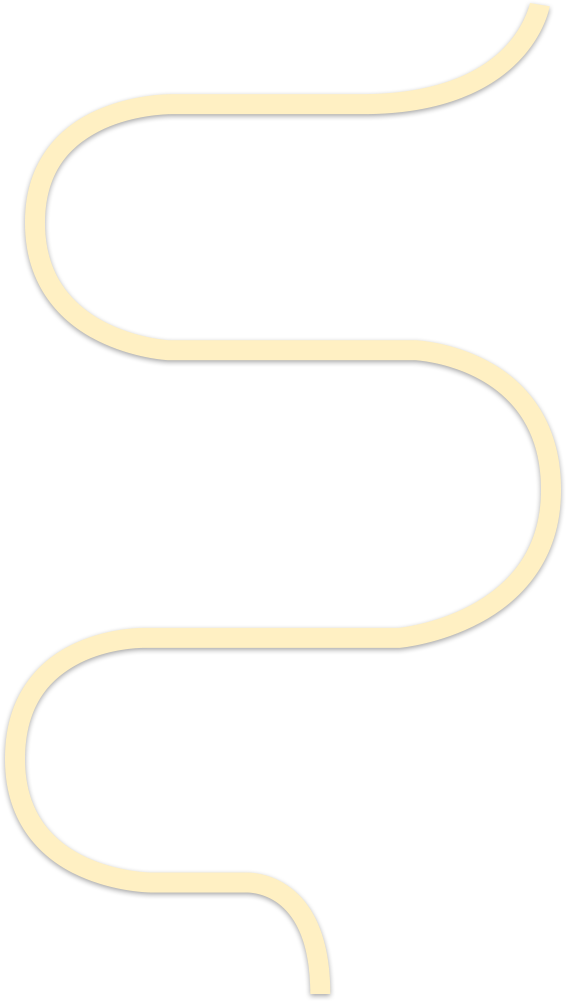
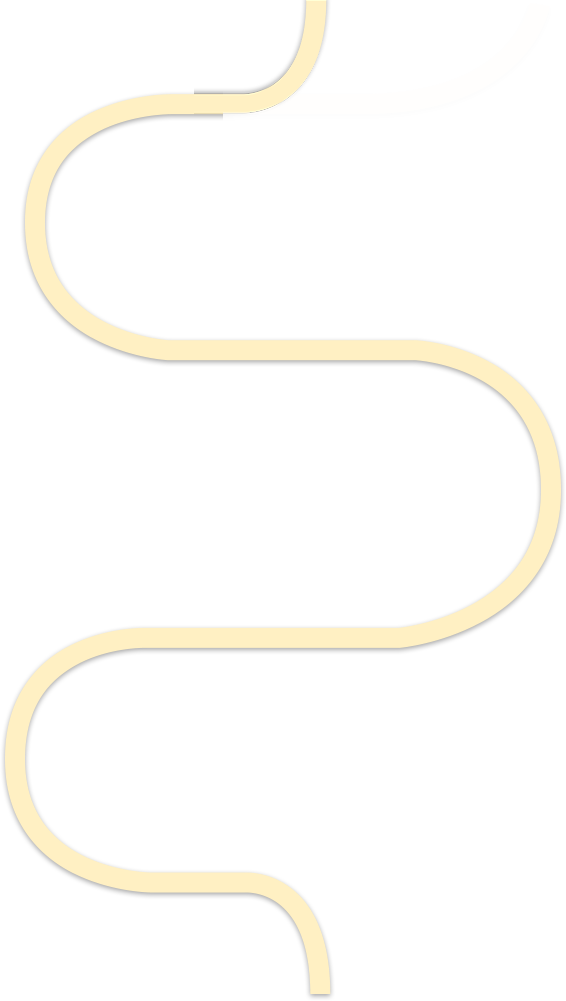
feat map

Changed region(s): [[0.3905, 0.0, 0.9912, 0.1239]]

diff --git a/assets/scripts/ui/MapSceneController.ts b/assets/scripts/ui/MapSceneController.ts
@@ -1,4 +1,4 @@
-import { _decorator, Component, Node, Button, ScrollView, Label, UITransform, Prefab, instantiate } from 'cc';
+import { _decorator, Component, Node, Button, ScrollView, Label, UITransform, Prefab, instantiate, Vec3, tween } from 'cc';
 import { NavigationManager, NavigationEvent } from '../utils/NavigationManager';
 import { SoundManager } from '../utils/SoundManager';
 import { LevelConfig } from '../data/LevelConfig';
@@ -23,13 +23,14 @@ interface LevelButtonData {
  * 路径上的点坐标（相对于 levelListContainer），顺序为 [x1, y1, x2, y2, ...]，与关卡 1、2、3… 一一对应。
  */
 const DEFAULT_PATH_POSITIONS = [
-    30, -240,   // 1 右下
-    -150, -140,   // 2
+    10, -240,   // 1 右下
+    -150, -120,   // 2
     150, 0,   // 3
     0, 80,   // 4
-    -145, 160,   // 5
-    140, 260      // 6
+    -140, 150   // 5
 ];
+const LEVELS_PER_GROUP = 5;
+const DYNAMIC_MAP_GROUP_PREFIX = 'MapPathGroup_';
 
 /**
  * 地图页控制器
@@ -47,9 +48,10 @@ export class MapSceneController extends Component {
     levelItemPrefab: Prefab | null = null;
 
     private _navManager: NavigationManager | null = null;
-    private _levelButtons: LevelButtonData[] = [];
     private _currentLevel: number = 1;
     private _unlockedLevel: number = 1;
+    private _initialContentHeight: number = 0;
+    private _baseMapOriginPos: { x: number; y: number; z: number } | null = null;
 
     /**
      * 组件生命周期：加载
@@ -69,6 +71,10 @@ export class MapSceneController extends Component {
 
         if (!this.levelListContainer && this.levelScrollView?.content) {
             this.levelListContainer = this.levelScrollView.content;
+        }
+        const contentTransform = this.levelScrollView?.content?.getComponent(UITransform);
+        if (contentTransform) {
+            this._initialContentHeight = contentTransform.height;
         }
 
         // 生成关卡列表
@@ -93,16 +99,8 @@ export class MapSceneController extends Component {
     protected onEnable(): void {
         if (!this.levelListContainer) return;
         this.loadUserData();
-        this.levelListContainer.children.forEach((node) => {
-            if (!node.name.startsWith('Level_')) return;
-            const ctrl = node.getComponent(LevelItemController);
-            if (!ctrl) return;
-            const levelNum = parseInt(node.name.replace('Level_', ''), 10) || 1;
-            ctrl.setData(
-                { levelNum, isUnlocked: levelNum <= this._unlockedLevel },
-                this._currentLevel
-            );
-        });
+        this.refreshAllLevelItemStates();
+        this.scheduleOnce(() => this.smoothScrollToCurrentLevel(), 0);
     }
 
     /**
@@ -146,43 +144,279 @@ export class MapSceneController extends Component {
             console.warn('[MapSceneController] 关卡列表容器未设置');
             return;
         }
-        this._levelButtons = [];
-
-        // 只移除之前生成的关卡节点（保留 LevelContainer 等），避免 removeAllChildren 误删
-        const toRemove: Node[] = [];
-        this.levelListContainer.children.forEach((c) => {
-            if (c.name.startsWith('Level_')) toRemove.push(c);
-        });
-        toRemove.forEach((c) => c.removeFromParent());
-
+        const groupContext = this.prepareMapGroupContext();
         const totalLevels = Math.max(1, LevelConfig.getTotalLevels());
-        const pathPoints = DEFAULT_PATH_POSITIONS;
-        const pathPointCount = Math.floor(pathPoints.length / 2);
-        const visibleLevels = Math.min(totalLevels, pathPointCount);
+        const totalGroups = Math.max(1, Math.ceil(totalLevels / LEVELS_PER_GROUP));
+        const groupPathPointCount = this.getGroupPathPointCount();
+        if (groupPathPointCount < LEVELS_PER_GROUP) {
+            console.warn(`[MapSceneController] 当前路径点只有 ${groupPathPointCount} 个，将按可用点位生成`);
+        }
 
-        for (let i = 1; i <= visibleLevels; i++) {
-            const levelData: LevelButtonData = {
-                levelId: LevelConfig.levelNumToLevelId(i),
-                levelNum: i,
-                isUnlocked: i <= this._unlockedLevel,
-                isCompleted: i < this._unlockedLevel,
-                stars: i < this._unlockedLevel ? 3 : 0
-            };
+        const baseStartY = (this._baseMapOriginPos?.y ?? 0) - ((totalGroups - 1) * groupContext.mapGroupHeight) / 2;
+        groupContext.baseMapGroupNode.setPosition(groupContext.basePosX, baseStartY, groupContext.basePosZ);
+        const generatedCount = this.spawnLevelButtons(totalLevels, groupPathPointCount, groupContext, baseStartY);
 
-            this._levelButtons.push(levelData);
+        this.updateContentHeight(totalGroups, groupContext.mapGroupHeight);
+        console.log(`[MapSceneController] 生成了 ${generatedCount} 个关卡按钮`);
+        this.scheduleOnce(() => this.smoothScrollToCurrentLevel(), 0);
+        groupContext.mapGroupTemplate.destroy();
+    }
 
+    private refreshAllLevelItemStates(): void {
+        if (!this.levelListContainer) return;
+        this.traverseNodes(this.levelListContainer, (node) => {
+            if (!node.name.startsWith('Level_')) return;
+            const ctrl = node.getComponent(LevelItemController);
+            if (!ctrl) return;
+            const levelNum = parseInt(node.name.replace('Level_', ''), 10) || 1;
+            ctrl.setData(
+                { levelNum, isUnlocked: levelNum <= this._unlockedLevel },
+                this._currentLevel
+            );
+        });
+    }
+
+    private prepareMapGroupContext(): {
+        baseMapGroupNode: Node;
+        mapGroupParent: Node;
+        mapGroupHeight: number;
+        mapGroupTemplate: Node;
+        basePosX: number;
+        basePosZ: number;
+    } {
+        const baseMapGroupNode = this.findBaseMapGroupNode();
+        const mapGroupParent = baseMapGroupNode.parent ?? this.levelListContainer!;
+        const mapGroupHeight = Math.max(1, baseMapGroupNode.getComponent(UITransform)?.height ?? 0);
+        if (!this._baseMapOriginPos) {
+            const p = baseMapGroupNode.position;
+            this._baseMapOriginPos = { x: p.x, y: p.y, z: p.z };
+        }
+
+        this.clearDynamicMapGroups(mapGroupParent);
+        this.clearLevelButtons(baseMapGroupNode);
+
+        // 使用“无关卡按钮”的干净模板做克隆，避免 1~5 被复制到后续分组导致重叠态。
+        const mapGroupTemplate = instantiate(baseMapGroupNode);
+        this.clearLevelButtons(mapGroupTemplate);
+
+        return {
+            baseMapGroupNode,
+            mapGroupParent,
+            mapGroupHeight,
+            mapGroupTemplate,
+            basePosX: this._baseMapOriginPos?.x ?? baseMapGroupNode.position.x,
+            basePosZ: this._baseMapOriginPos?.z ?? baseMapGroupNode.position.z
+        };
+    }
+
+    private getGroupPathPointCount(): number {
+        const pathPointCount = Math.floor(DEFAULT_PATH_POSITIONS.length / 2);
+        return Math.min(LEVELS_PER_GROUP, pathPointCount);
+    }
+
+    private spawnLevelButtons(
+        totalLevels: number,
+        groupPathPointCount: number,
+        groupContext: {
+            baseMapGroupNode: Node;
+            mapGroupParent: Node;
+            mapGroupHeight: number;
+            mapGroupTemplate: Node;
+            basePosX: number;
+            basePosZ: number;
+        },
+        baseStartY: number
+    ): number {
+        const groupNodeMap = new Map<number, Node>();
+        groupNodeMap.set(0, groupContext.baseMapGroupNode);
+        let generatedCount = 0;
+
+        for (let i = 1; i <= totalLevels; i++) {
+            const groupIndex = Math.floor((i - 1) / LEVELS_PER_GROUP);
+            const localIndex = (i - 1) % LEVELS_PER_GROUP;
+            if (localIndex >= groupPathPointCount) continue;
+
+            const levelData: LevelButtonData = this.createLevelData(i);
             const levelButton = this.createLevelButton(levelData);
-            if (levelButton) {
-                const idx = (i - 1) * 2;
-                levelButton.setPosition(pathPoints[idx], pathPoints[idx + 1], 0);
-                this.levelListContainer.addChild(levelButton);
+            if (!levelButton) continue;
+
+            const groupNode = this.getOrCreateGroupNode(groupIndex, baseStartY, groupContext, groupNodeMap);
+            const levelParent = groupNode.getChildByName('LevelContainer') ?? groupNode;
+            const idx = localIndex * 2;
+            levelButton.setPosition(DEFAULT_PATH_POSITIONS[idx], DEFAULT_PATH_POSITIONS[idx + 1], 0);
+            levelParent.addChild(levelButton);
+            generatedCount++;
+        }
+
+        return generatedCount;
+    }
+
+    private createLevelData(levelNum: number): LevelButtonData {
+        return {
+            levelId: LevelConfig.levelNumToLevelId(levelNum),
+            levelNum,
+            isUnlocked: levelNum <= this._unlockedLevel,
+            isCompleted: levelNum < this._unlockedLevel,
+            stars: levelNum < this._unlockedLevel ? 3 : 0
+        };
+    }
+
+    private getOrCreateGroupNode(
+        groupIndex: number,
+        baseStartY: number,
+        groupContext: {
+            baseMapGroupNode: Node;
+            mapGroupParent: Node;
+            mapGroupHeight: number;
+            mapGroupTemplate: Node;
+            basePosX: number;
+            basePosZ: number;
+        },
+        groupNodeMap: Map<number, Node>
+    ): Node {
+        const existed = groupNodeMap.get(groupIndex);
+        if (existed) {
+            return existed;
+        }
+        const groupNode = instantiate(groupContext.mapGroupTemplate);
+        groupNode.name = `${DYNAMIC_MAP_GROUP_PREFIX}${groupIndex + 1}`;
+        groupNode.setPosition(
+            groupContext.basePosX,
+            baseStartY + groupContext.mapGroupHeight * groupIndex,
+            groupContext.basePosZ
+        );
+        groupContext.mapGroupParent.addChild(groupNode);
+        groupNodeMap.set(groupIndex, groupNode);
+        return groupNode;
+    }
+
+    /**
+     * 获取基础路线图节点（第 1 组），后续组通过克隆它向上拼接。
+     */
+    private findBaseMapGroupNode(): Node {
+        if (!this.levelListContainer) {
+            return this.node;
+        }
+        const directLevelContainer = this.levelListContainer.getChildByName('LevelContainer');
+        if (directLevelContainer) {
+            return directLevelContainer;
+        }
+        for (const child of this.levelListContainer.children) {
+            if (child.getChildByName('LevelContainer')) {
+                return child;
             }
         }
+        return this.levelListContainer;
+    }
 
-        if (visibleLevels < totalLevels) {
-            console.warn(`[MapSceneController] 路径点不足，仅显示前 ${visibleLevels}/${totalLevels} 关`);
+    /**
+     * 清理动态克隆的路线图组。
+     */
+    private clearDynamicMapGroups(parent: Node): void {
+        const toRemove: Node[] = [];
+        parent.children.forEach((child) => {
+            if (child.name.startsWith(DYNAMIC_MAP_GROUP_PREFIX)) {
+                toRemove.push(child);
+            }
+        });
+        toRemove.forEach((child) => child.removeFromParent());
+    }
+
+    /**
+     * 清理指定节点及子树内生成的关卡按钮。
+     */
+    private clearLevelButtons(root: Node): void {
+        const toRemove: Node[] = [];
+        this.traverseNodes(root, (node) => {
+            if (node.name.startsWith('Level_')) {
+                toRemove.push(node);
+            }
+        });
+        toRemove.forEach((node) => node.removeFromParent());
+    }
+
+    /**
+     * 根据路线图组数量扩展 ScrollView content 高度，确保可滚动查看上方拼接组。
+     */
+    private updateContentHeight(totalGroups: number, mapGroupHeight: number): void {
+        const content = this.levelScrollView?.content;
+        const contentTransform = content?.getComponent(UITransform);
+        if (!contentTransform) {
+            return;
         }
-        console.log(`[MapSceneController] 生成了 ${visibleLevels} 个关卡按钮`);
+        if (this._initialContentHeight <= 0) {
+            this._initialContentHeight = contentTransform.height;
+        }
+        const targetHeight = Math.max(this._initialContentHeight, Math.ceil(mapGroupHeight * totalGroups));
+        contentTransform.setContentSize(contentTransform.width, targetHeight);
+    }
+
+    /**
+     * 自动平滑滚动到当前关卡（使当前关卡尽量靠近视口中心）。
+     */
+    private smoothScrollToCurrentLevel(duration: number = 0.35): void {
+        const scrollView = this.levelScrollView;
+        const content = scrollView?.content;
+        if (!scrollView || !content || !this.levelListContainer) {
+            return;
+        }
+
+        const targetLevelNode = this.findNodeByName(this.levelListContainer, `Level_${this._currentLevel}`);
+        if (!targetLevelNode) {
+            return;
+        }
+
+        const contentParent = content.parent;
+        const contentParentTransform = contentParent?.getComponent(UITransform);
+        const contentTransform = content.getComponent(UITransform);
+        const viewTransform = scrollView.node.getComponent(UITransform);
+        const levelTransform = targetLevelNode.getComponent(UITransform);
+        if (!contentParent || !contentParentTransform || !contentTransform || !viewTransform || !levelTransform) {
+            return;
+        }
+
+        const levelWorldPos = levelTransform.convertToWorldSpaceAR(new Vec3(0, 0, 0));
+        const viewWorldCenter = viewTransform.convertToWorldSpaceAR(new Vec3(0, 0, 0));
+        const levelInParent = contentParentTransform.convertToNodeSpaceAR(levelWorldPos);
+        const viewCenterInParent = contentParentTransform.convertToNodeSpaceAR(viewWorldCenter);
+
+        const deltaY = levelInParent.y - viewCenterInParent.y;
+        const currentPos = content.position;
+        let targetY = currentPos.y - deltaY;
+
+        const contentHeight = contentTransform.height;
+        const viewHeight = viewTransform.height;
+        const contentAnchorY = contentTransform.anchorY;
+        const viewAnchorY = viewTransform.anchorY;
+        const minY = (1 - viewAnchorY) * viewHeight - (1 - contentAnchorY) * contentHeight;
+        const maxY = -viewAnchorY * viewHeight + contentAnchorY * contentHeight;
+        targetY = Math.max(minY, Math.min(maxY, targetY));
+
+        scrollView.stopAutoScroll();
+        tween(content)
+            .to(duration, { position: new Vec3(currentPos.x, targetY, currentPos.z) }, { easing: 'quadOut' })
+            .start();
+    }
+
+    private findNodeByName(root: Node, name: string): Node | null {
+        let target: Node | null = null;
+        this.traverseNodes(root, (node) => {
+            if (!target && node.name === name) {
+                target = node;
+            }
+        });
+        return target;
+    }
+
+    private traverseNodes(root: Node, visitor: (node: Node) => void): void {
+        const stack: Node[] = [root];
+        while (stack.length > 0) {
+            const current = stack.pop()!;
+            visitor(current);
+            for (const child of current.children) {
+                stack.push(child);
+            }
+        }
     }
 
     /**
@@ -262,7 +496,6 @@ export class MapSceneController extends Component {
      * 用于在游戏完成后更新进度
      */
     public refreshLevelList(): void {
-        this._levelButtons = [];
         this.loadUserData();
         this.generateLevelList();
     }

diff --git a/assets/scripts/data/UserProfile.ts b/assets/scripts/data/UserProfile.ts
@@ -51,7 +51,7 @@ const DEFAULT_PROFILE: UserProfileData = {
     undoCount: 3,
     addTubeCount: 1,
     progressBarCleared: 0,
-    progressBarTarget: 1,
+    progressBarTarget: 6,
     unlockedBottleTypes: [1, 2],
     selectedBottleType: 1,
     unlockedBackgroundTypes: [1, 2],
